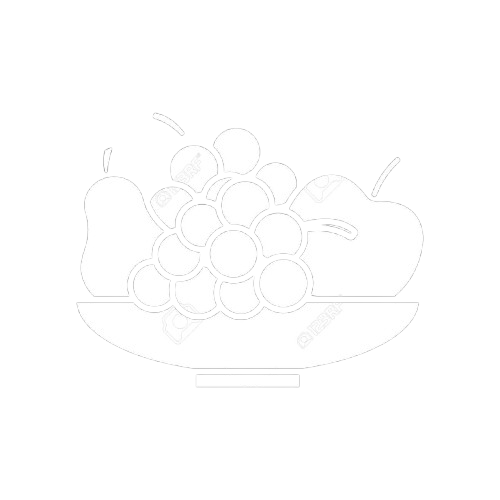
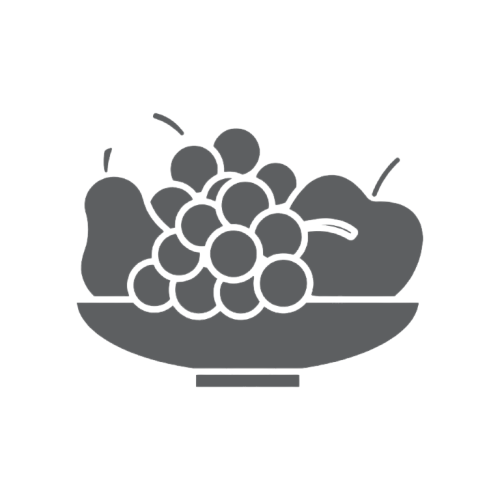
mod - cambiado frutero a gris

diff --git a/src/app/shared/components/boton-modo-oscuro/boton-modo-oscuro.component.html b/src/app/shared/components/boton-modo-oscuro/boton-modo-oscuro.component.html
@@ -1,9 +1,8 @@
-<ion-fab horizontal="end" vertical="bottom" slot="fixed"  [style.padding-right]="'16px'" [style.margin-bottom]="'130px'">
+<ion-fab horizontal="end" vertical="bottom" slot="fixed"  [style.padding-right]="'16px'" [style.margin-bottom]="'130px'" (click)="toggleTheme()">
   <ion-fab-button>
     <ion-icon
       [name]="isLightMode ? 'sunny' : 'moon'"
-      class="text-2xl hover:cursor-pointer"
-      (click)="toggleTheme()">
+      class="text-2xl hover:cursor-pointer">
     </ion-icon>
   </ion-fab-button>
 </ion-fab>
